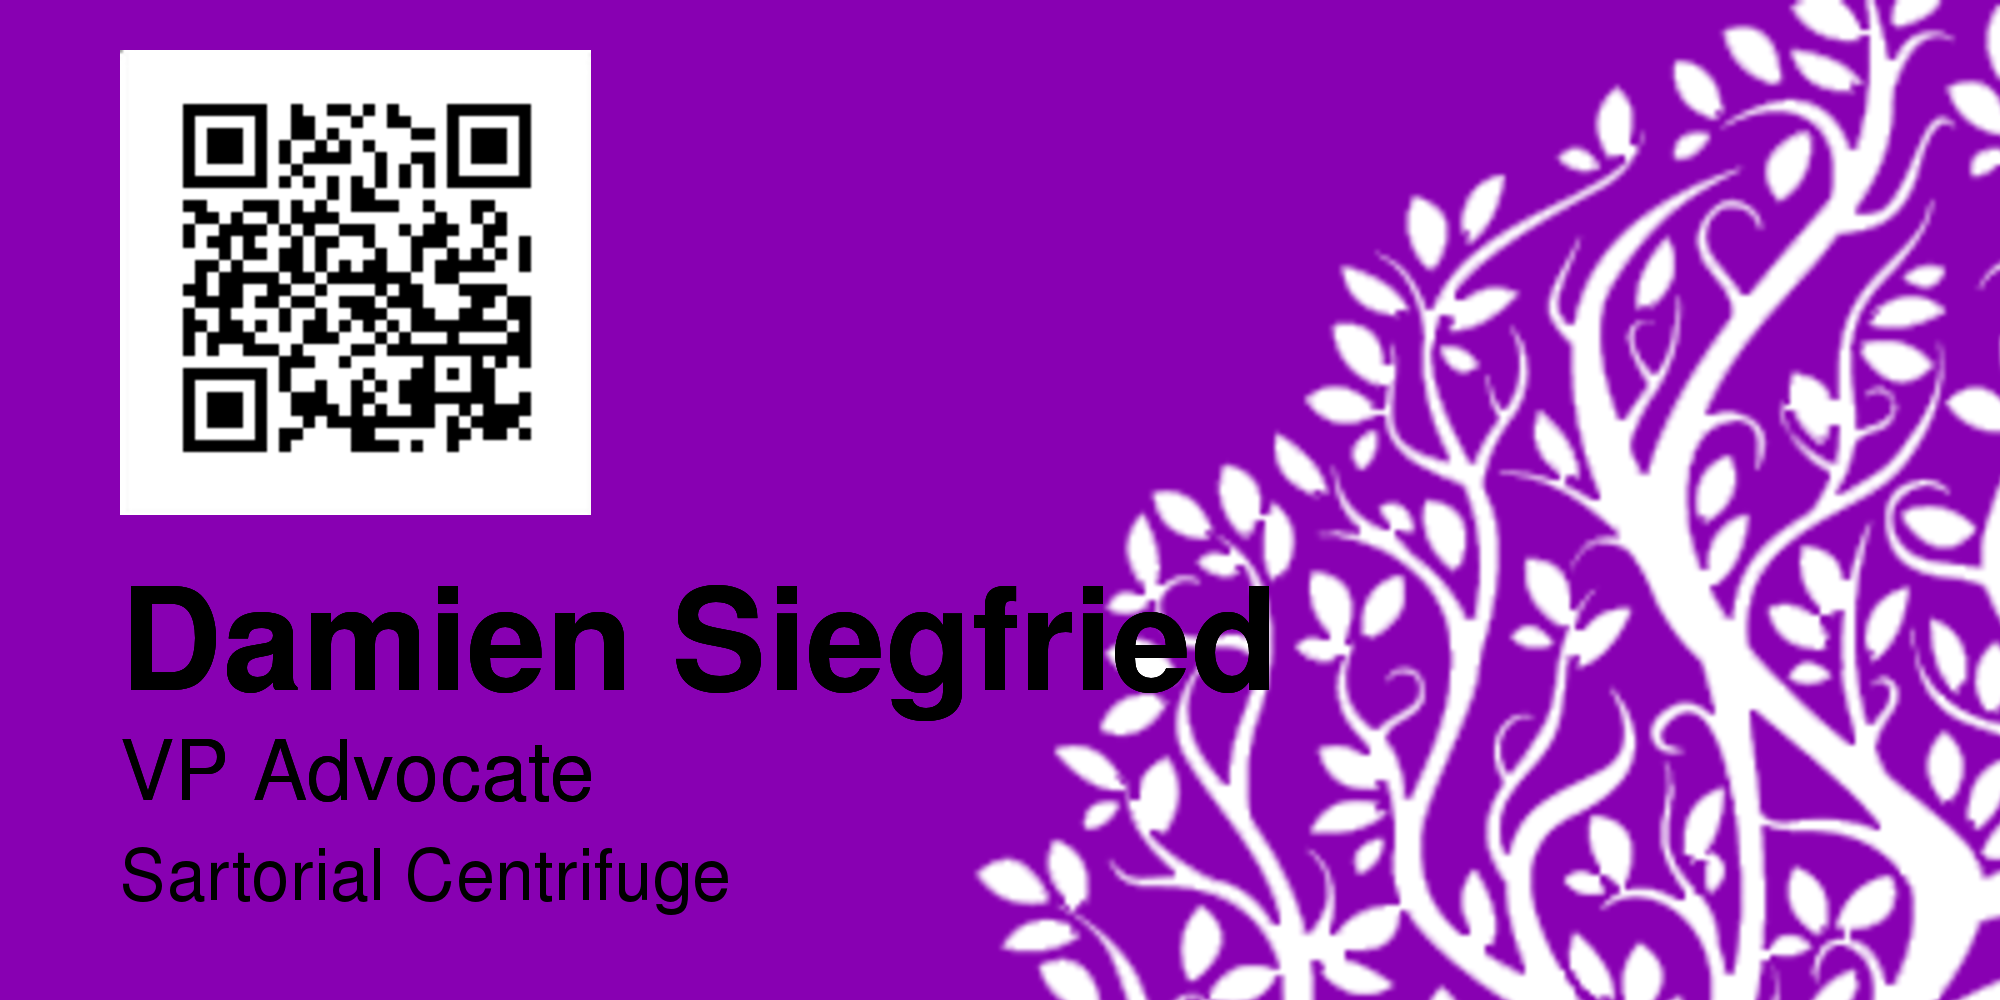
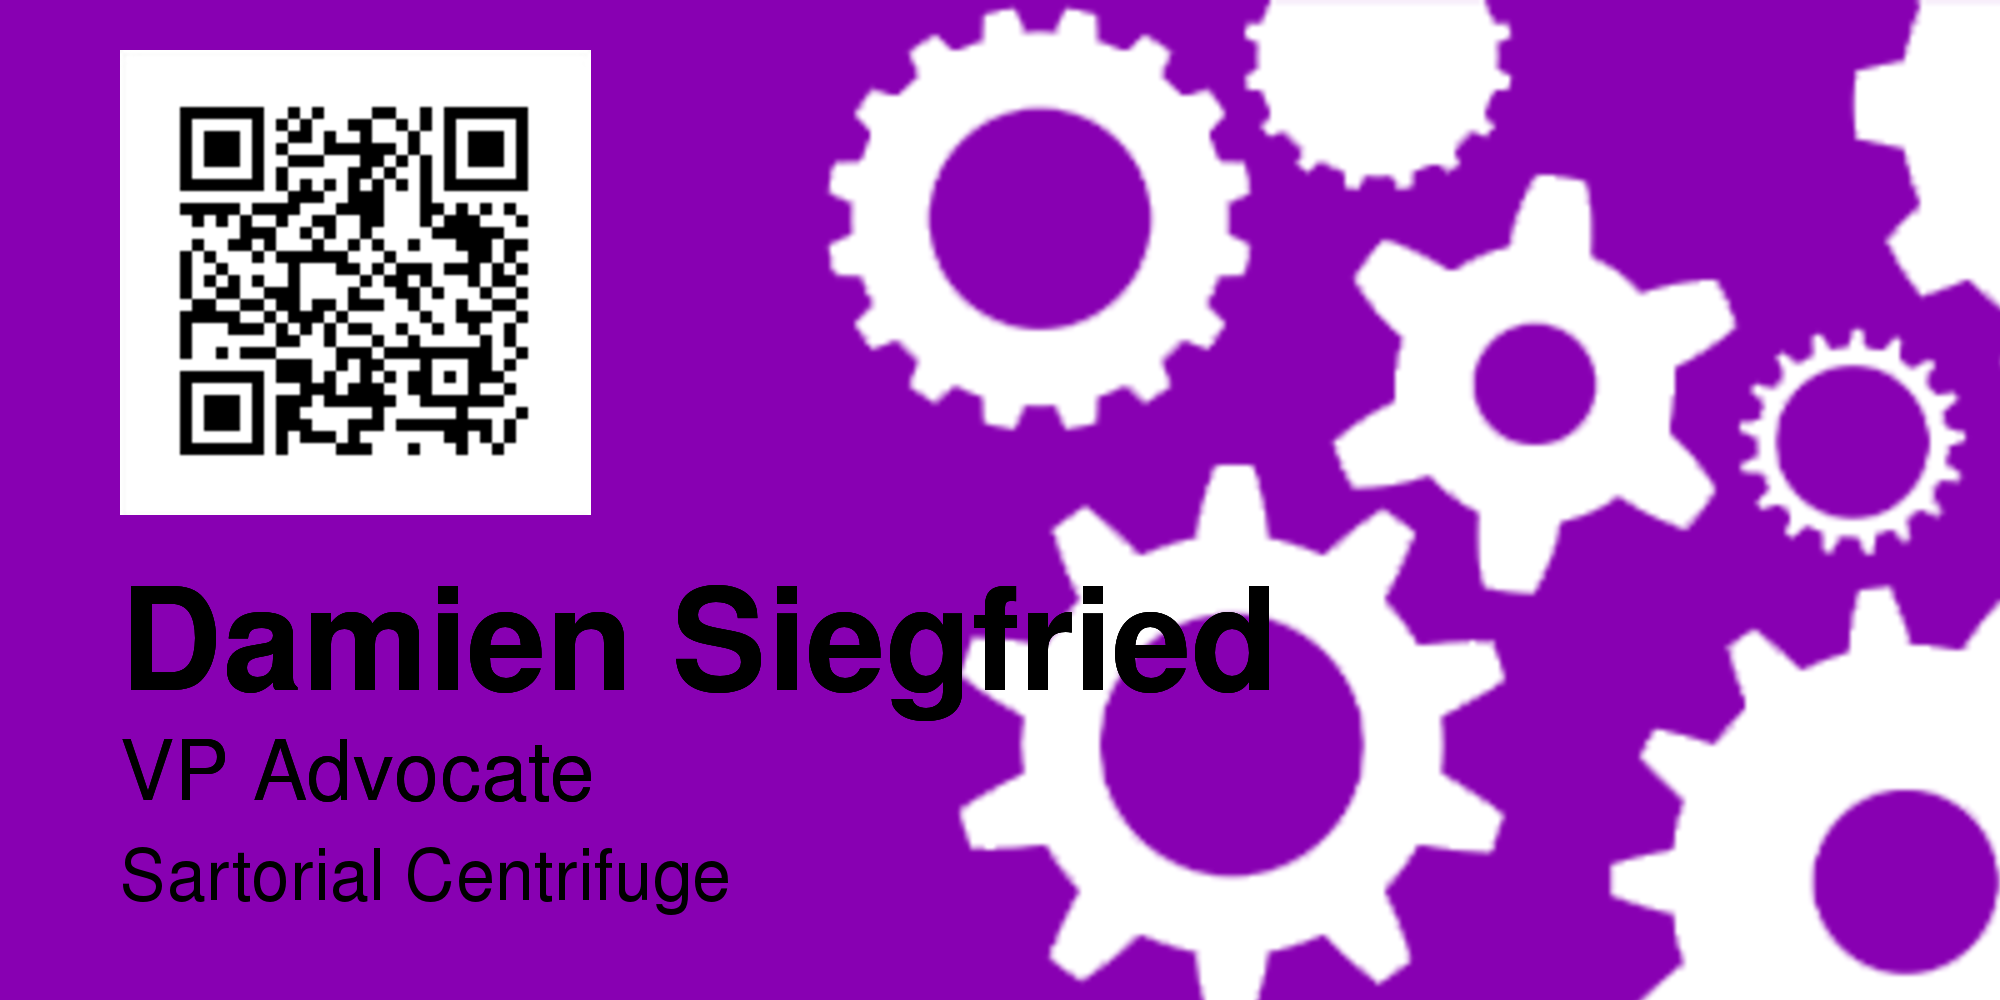
Custom card is now done and displayed

diff --git a/app/assets/stylesheets/bills.css.scss b/app/assets/stylesheets/bills.css.scss
@@ -1,3 +1,8 @@
 // Place all the styles related to the Bills controller here.
 // They will automatically be included in application.css.
 // You can use Sass (SCSS) here: http://sass-lang.com/
+
+.custom_card{
+    width: 60em;
+
+}
